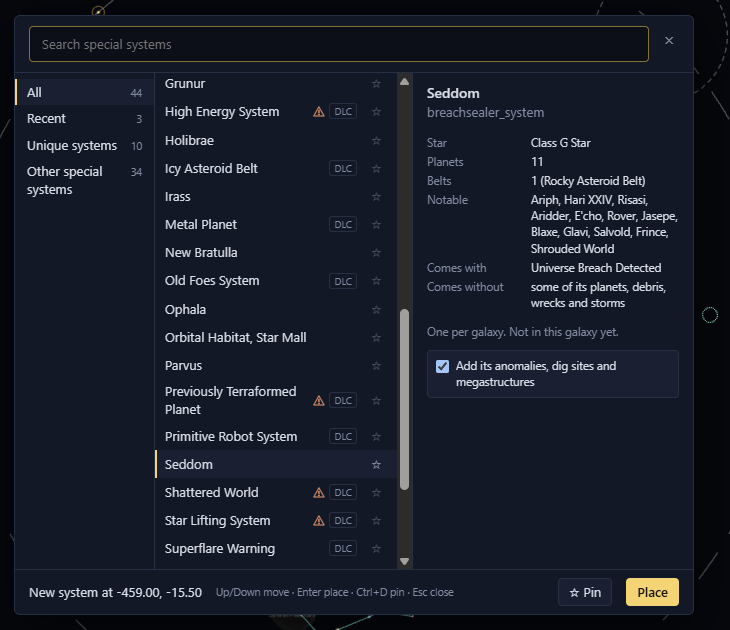
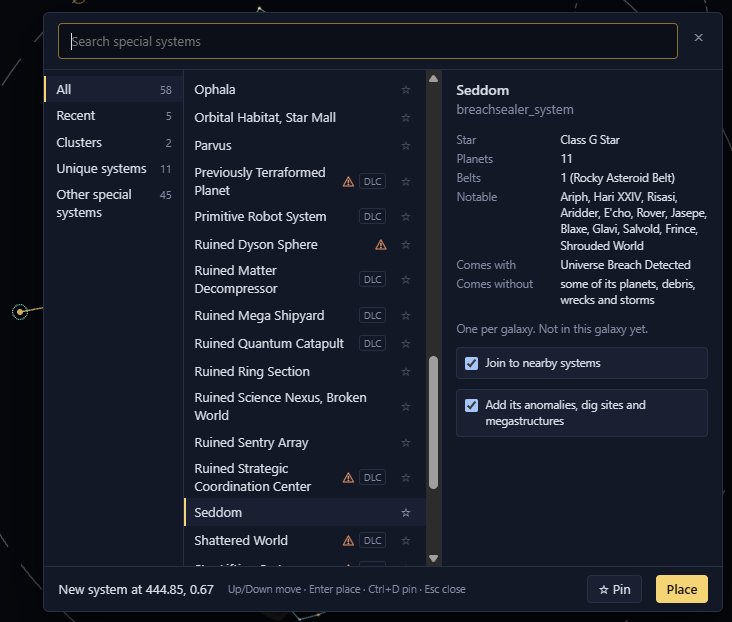
Retake the Special picker screenshot with the Clusters group

Changed region(s): [[0.0, 0.0, 1.0, 1.0], [0.6329, 0.6415, 0.874, 0.7026]]

diff --git a/guide/images/SHOTS.md b/guide/images/SHOTS.md
@@ -71,7 +71,7 @@ The Issues, Changes and added-system shots show those edits.
 | `edit/lane-menu.png` | `edit/hyperlanes.md` | The right-click menu on a lane | Right-click the Usksion to Xraneax lane. |
 | `edit/system-menu-save.png` | `edit/hyperlanes.md` | The right-click menu on a system in a save | Right-click Xraneax. |
 | `edit/add-system-menu.png` | `edit/add-systems.md` | Add system here with the star classes | Right-click empty space and hover Add system here. |
-| `edit/special-picker.png` | `edit/add-systems.md` | The Special picker beside the spot, with the map in view: groups, rows with their marks, the detail pane with Comes with, Comes without and the extras checkbox, and Place | Right-click an empty spot right of the core, hover Add system here and select Special…. Highlight Seddom, which shows the extras checkbox. Kira, Big Rip System and others show warning marks on this save. Crop the dialog with the spot beside it. |
+| `edit/special-picker.png` | `edit/add-systems.md` | The Special picker beside the spot, with the map in view: groups with Clusters, rows with their marks, the detail pane with Comes with, Comes without, Join to nearby systems and the extras checkbox, and Place | On the 4.5 day-one sample, right-click an empty spot just outside the galaxy's west edge, hover Add system here and select Special…. Scroll the list and click Seddom, which shows the extras checkbox. Previously Terraformed Planet and others show warning marks on this save. Crop the dialog with the spot beside it. |
 | `edit/added-system-inspector.png` | `edit/add-systems.md` | An added system's page | Select Alphecca #601 after adding it. |
 | `edit/connect-brush-options.png` | `edit/brushes.md` | The Connect lanes brush and its options | Press C with the Size at 40 and hover the tool so its tooltip shows. |
 | `edit/paint-brush-options.png` | `edit/brushes.md` | The Paint brush options | In the Paint a Galaxy scenario, press B with Size 400 and Lanes on New and nearby. Crop the option bar. |
